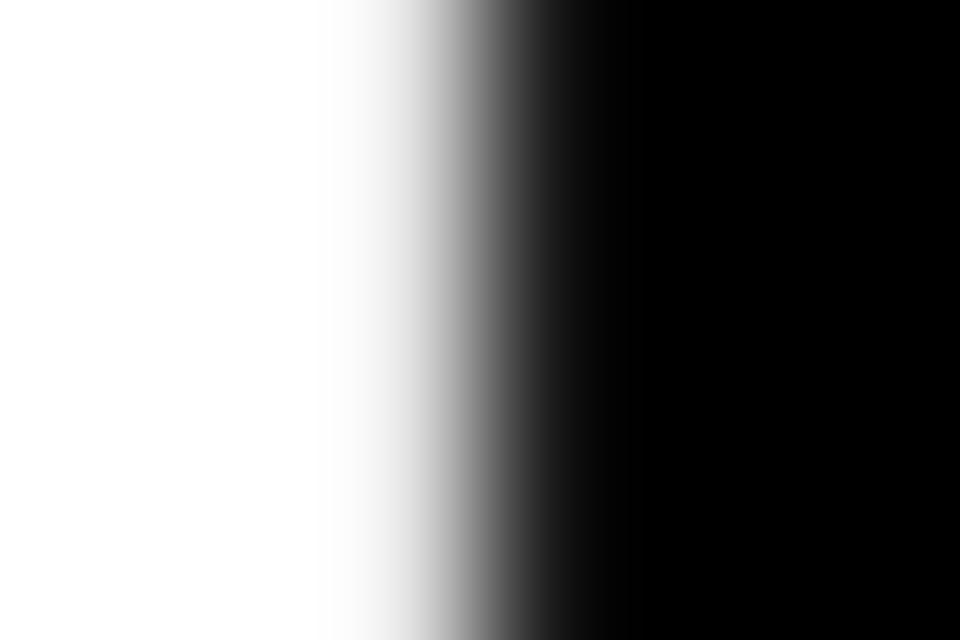
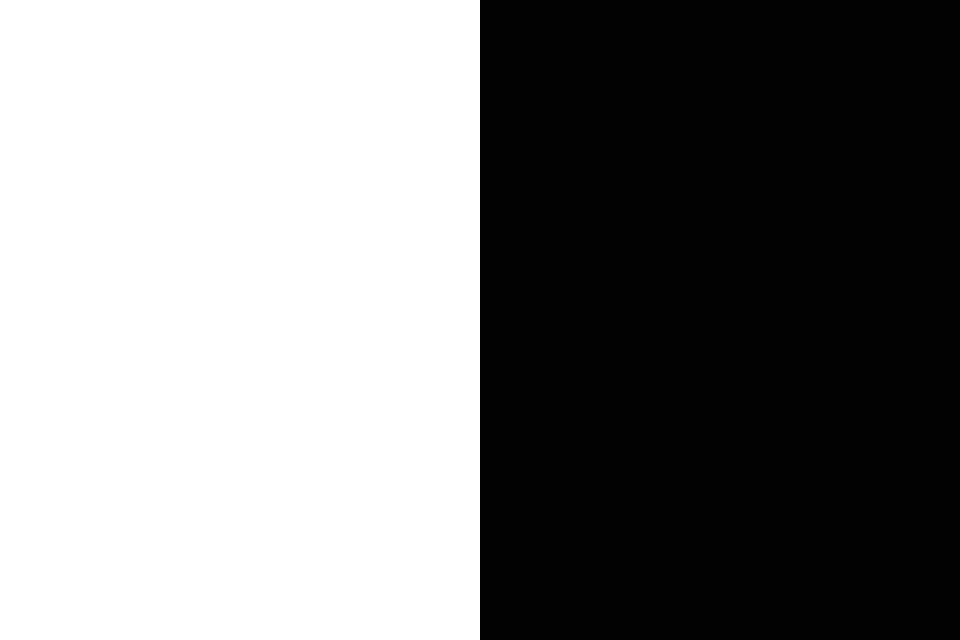
docs(proj2): add exaggerated sharpening amounts, hard lake mask

Changed region(s): [[0.4062, 0.0, 0.5938, 1.0]]

diff --git a/docs/proj2/index.html b/docs/proj2/index.html
@@ -214,11 +214,13 @@
       </div>
       <p class="intro">That is the easiest way to picture the process, though the code combines it into one filter, <span class="formula">(1 + α) · impulse − α · Gaussian</span>, before convolving with the image.</p>
       <h3>How much is too much?</h3>
-      <p class="intro">As α goes up, the windows and carvings stand out more, but at 3 the bright halos around the dome and trees start looking unnatural.</p>
-      <div class="gallery three">
+      <p class="intro">As α goes up, the windows and carvings stand out more, but at 3 the bright halos around the dome and trees start looking unnatural, and at 5 and 10 the whole image turns into harsh outlines and noise.</p>
+      <div class="gallery five">
         <figure><img src="assets/taj_sharpened_alpha_0.5.jpg" alt="Taj sharpened with alpha 0.5" /><figcaption><b>α = 0.5</b><span>Subtle</span></figcaption></figure>
         <figure class="pick"><img src="assets/taj_sharpened_alpha_1.5.jpg" alt="Taj sharpened with alpha 1.5" /><figcaption><b>α = 1.5 (my pick)</b><span>Crisp, still natural</span></figcaption></figure>
         <figure><img src="assets/taj_sharpened_alpha_3.jpg" alt="Taj sharpened with alpha 3" /><figcaption><b>α = 3</b><span>Halos around the dome</span></figcaption></figure>
+        <figure><img src="assets/taj_sharpened_alpha_5.jpg" alt="Taj sharpened with alpha 5" /><figcaption><b>α = 5</b><span>Exaggerated</span></figcaption></figure>
+        <figure><img src="assets/taj_sharpened_alpha_10.jpg" alt="Taj sharpened with alpha 10" /><figcaption><b>α = 10</b><span>Way too much</span></figcaption></figure>
       </div>
       <h3 id="blur-recovery">Can sharpening undo a blur?</h3>
       <p class="intro">Here I blurred the photo on purpose first and then sharpened the blurry version.</p>
@@ -408,7 +410,7 @@
       </div>
 
       <h3>Summer to winter at Crystal Lake</h3>
-      <p class="intro">The same Colorado lake in summer and winter, blended left to right with a soft vertical mask so the open water slowly turns to ice.</p>
+      <p class="intro">The same Colorado lake in summer and winter, blended with a vertical seam down the middle.</p>
       <div class="gallery three">
         <figure><img src="assets/seasons_image1.jpg" alt="Crystal Lake in summer" /><figcaption><b>Summer</b></figcaption></figure>
         <figure><img src="assets/seasons_image2.jpg" alt="Crystal Lake in winter" /><figcaption><b>Winter</b></figcaption></figure>
